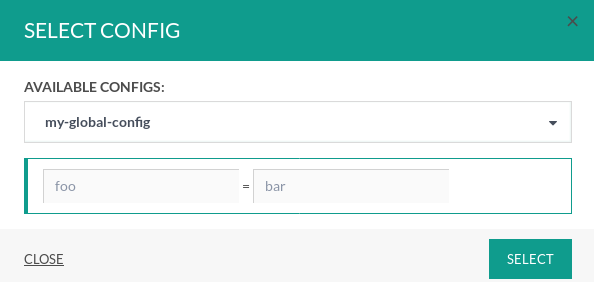
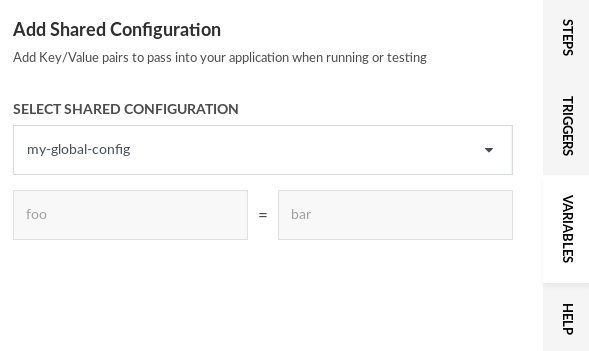
Importing shared configuration in new pipeline editor

diff --git a/_docs/configure-ci-cd-pipeline/shared-configuration.md b/_docs/configure-ci-cd-pipeline/shared-configuration.md
@@ -44,7 +44,8 @@ You can create as many shared snippets as you want (with unique names).
 
 ## Using shared environment variables
 
-Each pipeline has a set of environment variables that can be defined in its configuration screen.
+Each pipeline has a set of environment variables that can be defined in the *Workflow* screen.
+To import a shared configuration open the pipeline editor, and from the tabs on the right side select *VARIABLES*. Then click the gear icon to *Open Advanced Options*:
 
 {% include 
 image.html 
@@ -56,7 +57,7 @@ caption="Pipeline environment variables"
 max-width="50%"
 %}
 
-To use your shared configuration, click the import button and select the snippet from the list:
+To use your shared configuration, click the *Import from shared configuration* button and select the snippet from the list:
 
 {% include 
 image.html 
@@ -68,7 +69,7 @@ caption="Importing shared configuration"
 max-width="50%"
 %}
 
-Once you click *Select* the values from the shared configuration will be appended to the ones
+Once you click *Add* the values from the shared configuration will be appended to the ones
 you have in your pipelines. In case of similar values the shared configuration will follow the [precedence rules]({{site.baseurl}}/docs/codefresh-yaml/variables/#user-provided-variables).
 
 
